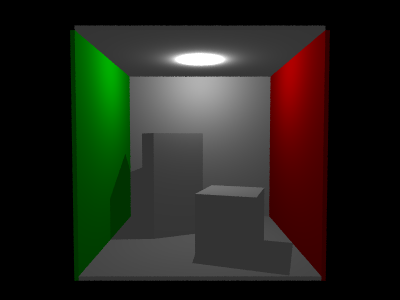
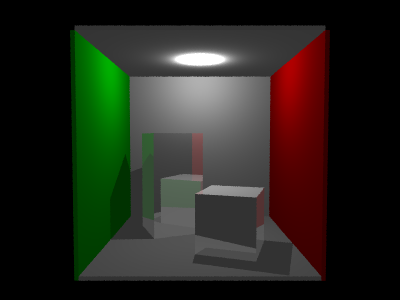
Implemente reflection and refraction
WIP: refractin not working properly yet

Changed region(s): [[0.33, 0.42, 0.66, 0.87]]

diff --git a/material.py b/material.py
@@ -3,19 +3,35 @@ import utils
 import color as colors
 
 from world import World
+from ray import Ray
 
 class Material():
-    def __init__(self, color:np.ndarray, diffuse:float, specular:float, shininess:float, ambient:float = 0.2,  debug:bool = False) -> None:
+    def __init__(
+            self, 
+            color:np.ndarray, 
+            diffuse:float, 
+            specular:float, 
+            shininess:float,
+            reflection:float = 0.0,
+            refraction:float = 0.0,
+            ior:float = 1.0,
+            ambient:float = 0.2, 
+            debug:bool = False
+        ) -> None:
+        self.color = color
         self.diffuse = diffuse
         self.specular = specular
-        self.ambient = ambient
         self.shininess = shininess
-        self.color = color
+        self.reflection = reflection
+        self.refraction = refraction
+        self.ior = ior
+        self.ambient = ambient
         self.debug = debug
     
-    def eval(self, world:World, hit, ray):
+    def eval(self, world:World, hit, ray, depth:int, camera):
         """
         Evaluate material color considering traced ray, world lights and hit informations.
+        Depth paramter is used to evaluate reflection and refraction of light through material
         """
         if self.debug:
             # Returns color based on hit normals
@@ -25,24 +41,37 @@ class Material():
                 hit.normal[2] + 1,
             ])
         else:
-            # Phong illumination model implementation
+            # Light evaluation
             color:np.ndarray = colors.BLACK
-            viewer_direction:np.ndarray = utils.normalize(ray.origin - hit.point)
+            viewer_direction:np.ndarray = utils.normalize(ray.origin - hit.position)
 
-            # Ambient
+            # Including ambient light
             color = color + (self.color * self.ambient)
 
             for light in world.lights:
+                # Get light data
                 light_intensity, light_dir = light.radiance(world, hit)
 
-                # Diffuse
+                # Evalaute diffuse component
                 color = color + (self.color * self.diffuse * light_intensity * max(0, np.dot(hit.normal, light_dir)))
 
-                # Specular
+                # Evaluate specular component
                 reflected_light_dir = utils.normalize(utils.reflect(light_dir, hit.normal))
 
+                # Accumulate color contribution by this light
                 color = color + (light.color * self.specular * light_intensity * pow(max(0, np.dot(reflected_light_dir, viewer_direction)), self.shininess))
             
-            # implementation logic..
+            if depth > 0:
+                if self.reflection > 0:
+                    reflected_dir = utils.reflect(ray.direction, hit.normal)
+                    reflected_ray = Ray(hit.position + hit.normal * utils.HIT_TOLERANCE, reflected_dir)
+
+                    color += self.reflection * camera.ray_color(reflected_ray, depth - 1)
+                
+                if self.refraction > 0:
+                    refracted_dir = utils.refract(ray.direction, hit.normal, self.ior)
+                    refracted_ray = Ray(hit.position - hit.normal * 1e-5, refracted_dir)
+                    color += self.refraction * camera.ray_color(refracted_ray, depth - 1)
+
 
             return color

diff --git a/camera.py b/camera.py
@@ -23,7 +23,7 @@ def _process_pixel(pixel_coords):
 
     for sample in range(global_camera.samples_per_pixel):
         ray = global_camera.sample_ray(i, j)
-        pixel_color += global_camera.ray_color(ray)
+        pixel_color += global_camera.ray_color(ray, depth=4)
 
     avg_samples_color = np.divide(pixel_color, global_camera.samples_per_pixel)
     return j, i, utils.write_color(avg_samples_color)
@@ -38,7 +38,7 @@ class Camera:
             width:int = 400,
             center:np.ndarray = np.array([0.0, 0.0, 1.0]),
             focal_lenght:float = 1.0,
-            samples_per_pixel:int = 15,
+            samples_per_pixel:int = 12,
             fov:float = 90.0
 
         ) -> None:
@@ -88,33 +88,27 @@ class Camera:
 
 
     def render(self, output_filepath="output.png") -> None:
-        _t_iter = self.height * self.width * self.samples_per_pixel
-        # _progress_bar = tqdm(total=_t_iter, desc="Progress", unit="iter")
-
-        # Gerar coordenadas de pixel para cada pixel na imagem
         pixel_coords = [(i, j) for j in range(self.height) for i in range(self.width)]
 
-        # Usar multiprocessing para processar os pixels em paralelo
         with Pool(processes=cpu_count(), initializer=_init_process, initargs=(self,)) as pool:
-            # Mapear a função process_pixel para os pixels
             results = pool.imap(_process_pixel, pixel_coords, chunksize=100)
 
-            # Iterar sobre os resultados para atualizar a matriz de pixels e a barra de progresso
             for result in tqdm(results, total=len(pixel_coords), desc="Rendering"):
                 j, i, color = result
                 self.pixels[j, i] = color
-                # _progress_bar.update(1)
 
-        # Salvar a imagem renderizada
         image = Image.fromarray(self.pixels)
         image.save(output_filepath)
 
 
-    def ray_color(self, ray:Ray) -> np.ndarray:
+    def ray_color(self, ray:Ray, depth:int) -> np.ndarray:
+        if depth <= 0:
+            return colors.BLACK
+        
         intersection:Hit | Light | None = self.world.get_nearest_hit(ray)
 
         if isinstance(intersection, Hit):
-            return intersection.instance.material.eval(self.world, intersection, ray)
+            return intersection.instance.material.eval(self.world, intersection, ray, depth, self)
         
         elif isinstance(intersection, Light):
             return intersection.color

diff --git a/box.py b/box.py
@@ -43,7 +43,7 @@ class Box:
         world_normal:np.ndarray = np.linalg.inv(self.transform[:3, :3]).T @ local_normal
 
         is_backface:bool = np.dot(ray.direction, world_normal) > 0
-        world_normal = -world_normal if is_backface else world_normal
+        # world_normal = -world_normal if is_backface else world_normal
 
         return Hit(world_hit_point[:3], world_normal, is_backface, instance=hittable, t=t_hit)
 
@@ -91,31 +91,6 @@ class Box:
         self.transform = rotation_matrix @ self.transform
 
         return self
-    
-    def apply_transform(self) -> None:
-        # Transform the corners of the box
-        corners = [
-            self.min_corner,
-            [self.min_corner[0], self.min_corner[1], self.max_corner[2]],
-            [self.min_corner[0], self.max_corner[1], self.min_corner[2]],
-            [self.min_corner[0], self.max_corner[1], self.max_corner[2]],
-            [self.max_corner[0], self.min_corner[1], self.min_corner[2]],
-            [self.max_corner[0], self.min_corner[1], self.max_corner[2]],
-            [self.max_corner[0], self.max_corner[1], self.min_corner[2]],
-            self.max_corner
-        ]
-
-        transformed_corners = []
-        for corner in corners:
-            transformed_corner = self.transform @ np.append(corner, 1)
-            transformed_corners.append(transformed_corner[:3])
-
-        transformed_corners = np.array(transformed_corners)
-
-        self.min_corner = np.min(transformed_corners, axis=0)
-        self.max_corner = np.max(transformed_corners, axis=0)
-
-        self.transform = np.eye(4)  # Reset transform matrix
 
 # # Criação de uma caixa
 # min_corner = np.array([-1.0, -1.0, -1.0])
@@ -134,7 +109,7 @@ class Box:
 # hit = box.intersects(box, ray)
 
 # if hit:
-#     print(f"Interseção detectada em {hit.point} com a normal {hit.normal}")
+#     print(f"Interseção detectada em {hit.position} com a normal {hit.normal}")
 #     print(f"Backface: {hit.backface}")
 # else:
 #     print("Nenhuma interseção detectada")

diff --git a/world.py b/world.py
@@ -19,27 +19,11 @@ class World:
         for hittable in self.hittables + self.lights:
             current_hit: Hit | Light | None = hittable.intersects(ray)
 
-            # If ray hitted object
             if current_hit != None:
-                # Check if nearest_hit is defined yet
                 if nearest_hit is None:
-                    # If its not, than current is the nearest
                     nearest_hit = current_hit
                 else:
-                # If its defined already, then define nearest as current hit based on its distance to origin
-                    current_hit_distance = 0.0
-
-                    if isinstance(current_hit, Light):
-                        current_hit_distance = utils.distance(current_hit.position, ray.origin)
-                    elif isinstance(current_hit, Hit):
-                        current_hit_distance = utils.distance(current_hit.point, ray.origin)
-                    
-                    if isinstance(nearest_hit, Light):
-                        nearest_hit_distance = utils.distance(nearest_hit.position, ray.origin)
-                    elif isinstance(nearest_hit, Hit):
-                        nearest_hit_distance = utils.distance(nearest_hit.point, ray.origin)
-                    
-                    if current_hit_distance < nearest_hit_distance:
+                    if utils.distance(current_hit.position, ray.origin) < utils.distance(nearest_hit.position, ray.origin):
                         nearest_hit = current_hit
         
         return nearest_hit

diff --git a/scenes.py b/scenes.py
@@ -14,6 +14,12 @@ red_glossy = Material(colors.RED, 0.1, 0.5, 70.0, debug=False)
 green_glossy = Material(colors.GREEN, 0.1, 0.5, 70.0, debug=False)
 blue_glossy = Material(colors.BLUE, 0.1, 0.5, 70.0, debug=False)
 gray_glossy = Material(colors.WHITE, 0.1, 0.001, 70.0, debug=False)
+blue_metal = Material(colors.BLUE, 0.1, 0.001, 70, reflection=0.5)
+gray_metal = Material(colors.WHITE, 0.1, 0.001, 70, reflection=0.5)
+green_metal = Material(colors.GREEN, 0.1, 0.001, 70, reflection=0.5)
+red_metal = Material(colors.RED, 0.1, 0.001, 70, reflection=0.5)
+gray_transparent = Material(colors.WHITE, 0.1, 0.001, 70, reflection=0.0, refraction=0.7, ior=1.5)
+
 
 small_box_surface = surface=Box(
     np.array([0.0, 0.0, 0.0]), 
@@ -86,12 +92,12 @@ cornell_box = World(
         # Small box
         Hittable(
             surface=small_box_surface,
-            material=gray_glossy
+            material=gray_metal
         ),
         # Big box
         Hittable(
             surface=big_box_surface,
-            material=gray_glossy
+            material=gray_metal
         ),
     ],
     lights=[

diff --git a/light.py b/light.py
@@ -15,15 +15,15 @@ class Light:
         self.color = color
     
     def radiance(self, world, hit:Hit) -> Tuple[float, np.ndarray]:
-        light_dir:np.ndarray = utils.normalize(self.position - hit.point)
-        shadow_origin:np.ndarray = hit.point + utils.HIT_TOLERANCE * hit.normal
+        light_dir:np.ndarray = utils.normalize(self.position - hit.position)
+        shadow_origin:np.ndarray = hit.position + utils.HIT_TOLERANCE * hit.normal
 
         shadow_ray:Ray = Ray(shadow_origin, light_dir)
 
         shadow_intersection: Hit | Light | None = world.get_nearest_hit(shadow_ray)
         
         if shadow_intersection is self:
-            r:float = utils.distance(hit.point, self.position)
+            r:float = utils.distance(hit.position, self.position)
             light_intensity:float = self.power / pow(r, 2)
 
             return light_intensity, light_dir

diff --git a/hit.py b/hit.py
@@ -3,14 +3,14 @@ import numpy as np
 
 class Hit:
     def __init__(self, 
-        point:np.ndarray,
+        position:np.ndarray,
         normal:np.ndarray,
         backface:bool,
         instance, # The hittable object associated with this hit
         t:float
         # NOTE: Maybe receive hittable instance and root t here also
     ) -> None:
-        self.point = point
+        self.position = position
         self.normal = normal
         self.backface = backface
         self.instance = instance
@@ -18,4 +18,4 @@ class Hit:
 
     def distance_to_origin(self, camera_center:np.ndarray = np.array([0.0, 0.0, 1.0])) -> float:
         # NOTE: maybe camera_center wasnt supposed to be passed here..
-        return float(np.linalg.norm(self.point - camera_center))
+        return float(np.linalg.norm(self.position - camera_center))

diff --git a/utils.py b/utils.py
@@ -58,10 +58,25 @@ def reflect(vector:np.ndarray, ref:np.ndarray) -> np.ndarray:
     """
     Returns a vector reflected along given ref
     """
-    return ((2 * np.dot(ref, vector)) * ref) - vector
+    # return ((2 * np.dot(ref, vector)) * ref) - vector
+    return vector - 2 * np.dot(vector, ref) * ref
 
-def refract():
-    raise NotImplementedError()
+def refract(v: np.ndarray, n: np.ndarray, ior: float) -> np.ndarray:
+    cosi = max(-1, min(1, np.dot(v, n)))
+    etai = 1
+    etat = ior
+    if cosi < 0:
+        cosi = -cosi
+    else:
+        etai, etat = etat, etai
+        n = -n
+    eta = etai / etat
+    k = 1 - eta ** 2 * (1 - cosi ** 2)
+    if k < 0:
+        return np.zeros(3)
+    else:
+        return eta * v + (eta * cosi - np.sqrt(k)) * n
+
     
     
 

diff --git a/abc_material.py b/abc_material.py
@@ -1,0 +1,12 @@
+from abc import ABC, abstractmethod
+
+from ray import Ray
+from world import World
+from hit import Hit
+
+import numpy as np
+
+class Material(ABC):
+    @abstractmethod
+    def eval(self, world:World, hit:Hit, ray:Ray):
+        pass
